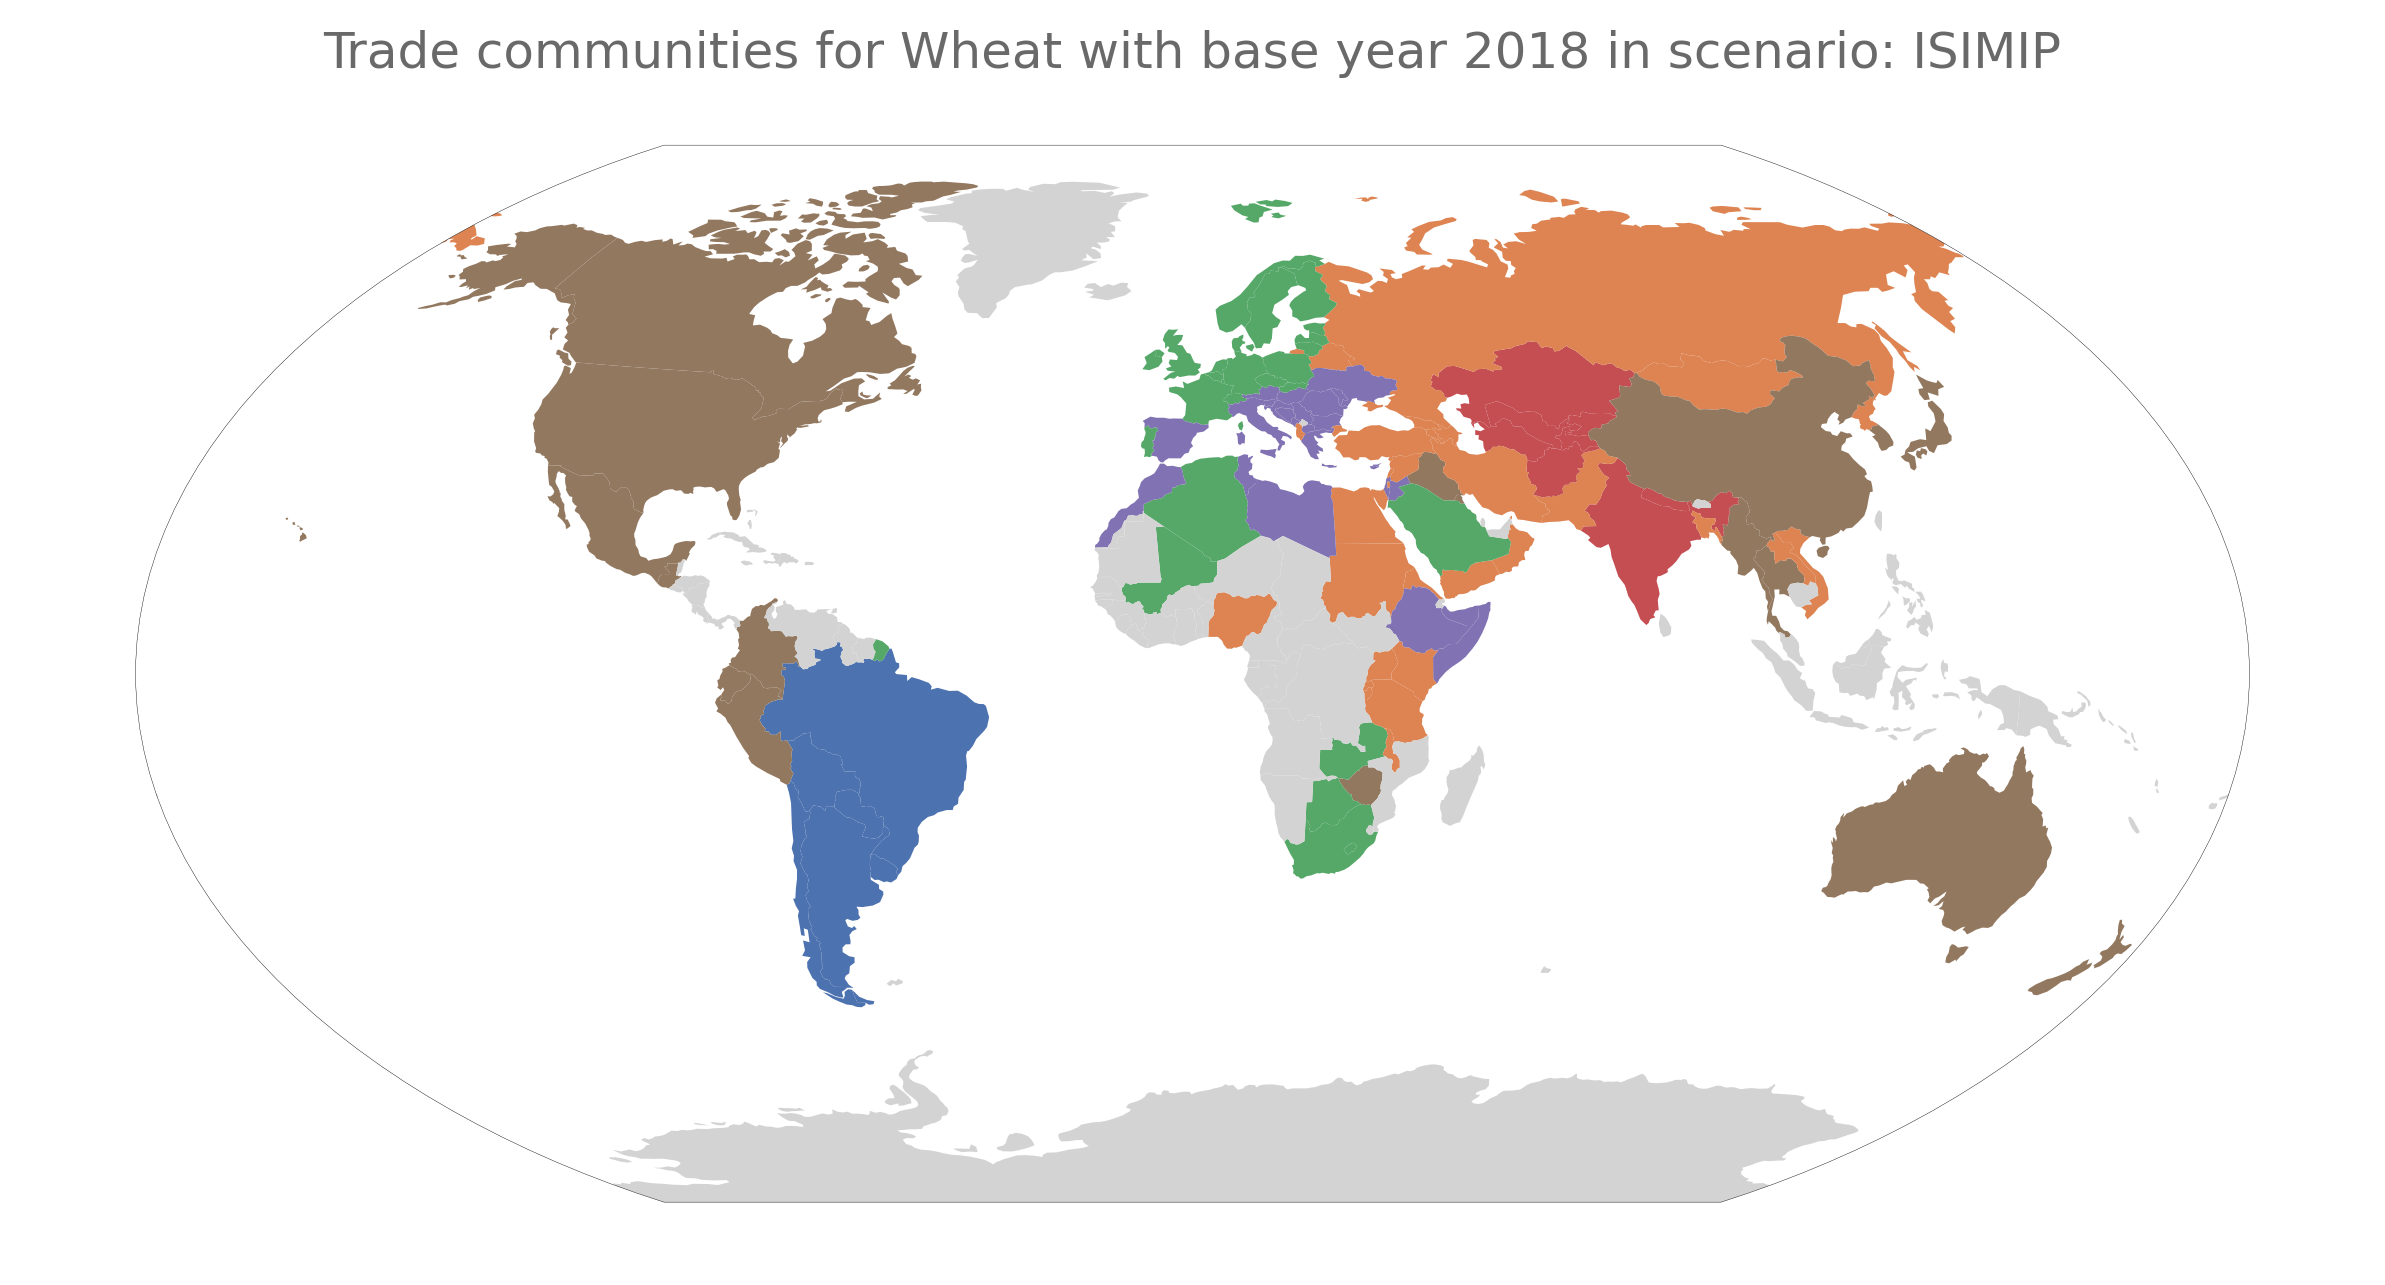
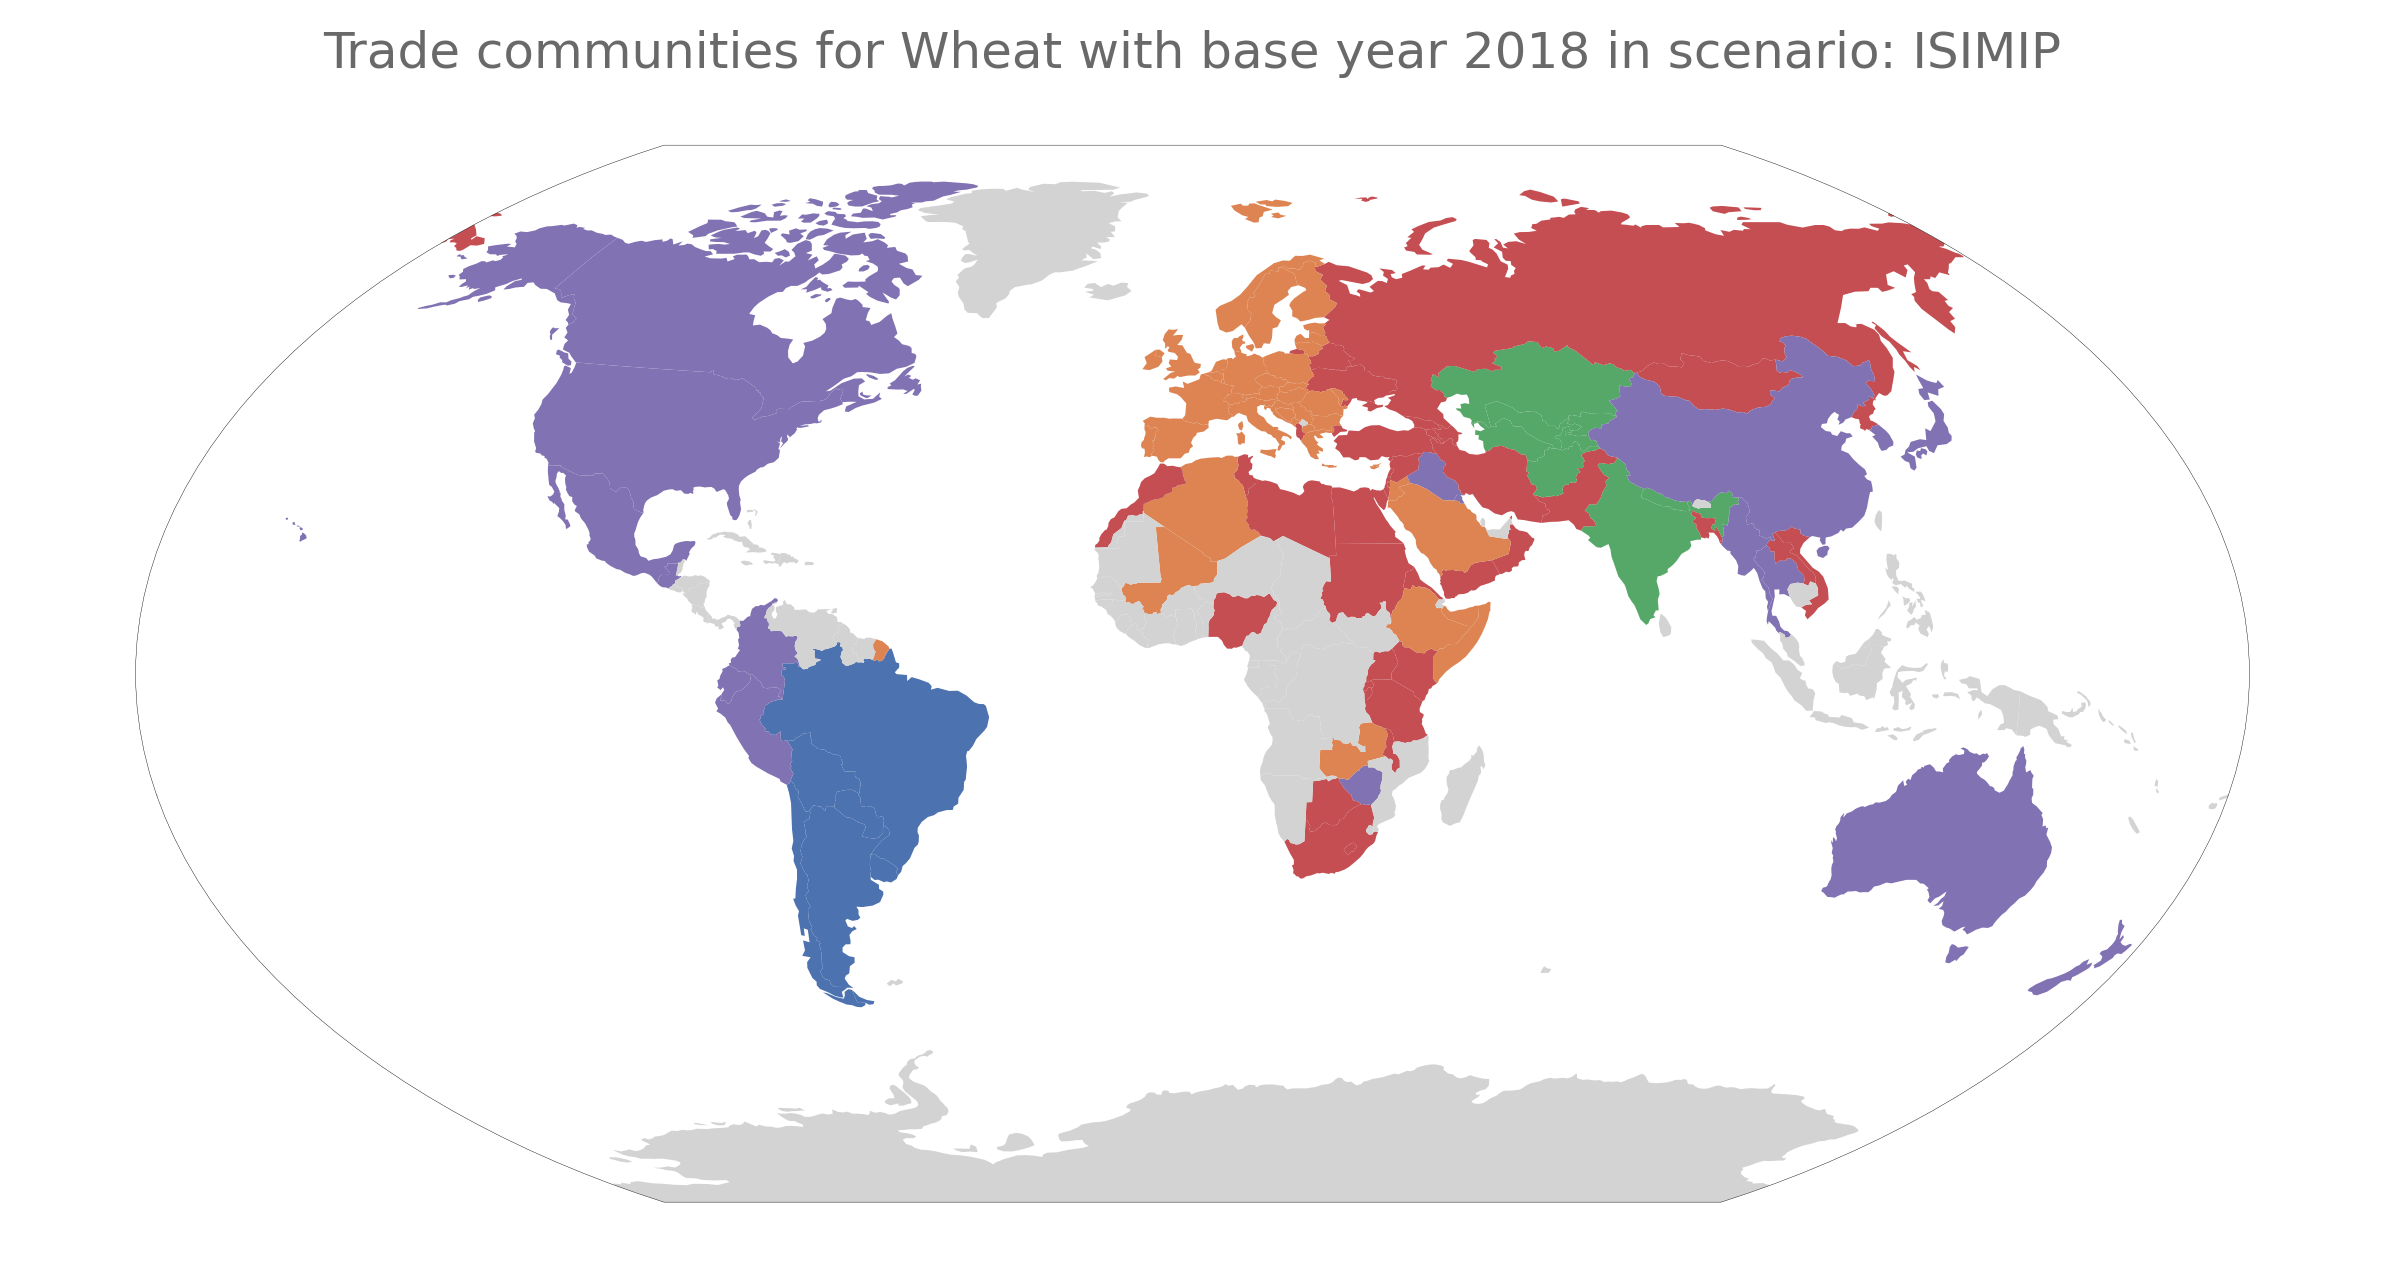
Fixed multiplication bug

diff --git a/tests/test_model.py b/tests/test_model.py
@@ -370,9 +370,9 @@ def test_apply_scenario():
     Wheat2018.find_trade_communities()
 
     # Check if the amount of trade for some countries has been reduced by the right amount
-    aus_ban = 0.50777499999999998 * 91600.6390029294
-    assert round(Wheat2018.trade_matrix.loc["Australia", "Bangladesh"], 2) == round(
-        aus_ban, 2
+    aus_ban = 1.50777499999999998 * 91600.6390029294
+    assert round(Wheat2018.trade_matrix.loc["Australia", "Bangladesh"], 1) == round(
+        aus_ban, 1
     )
 
     # Check if a country which is not in the scenario has been removed

diff --git a/src/model.py b/src/model.py
@@ -356,7 +356,7 @@ class PyTradeShifts:
         assert self.trade_matrix.index.equals(scenario_data.index)
 
         # Multiply all the columns with the scenario data
-        self.trade_matrix = self.trade_matrix.mul(scenario_data.values, axis=1)
+        self.trade_matrix = self.trade_matrix.mul(scenario_data.values, axis=0)
 
     def build_graph(self):
         """
